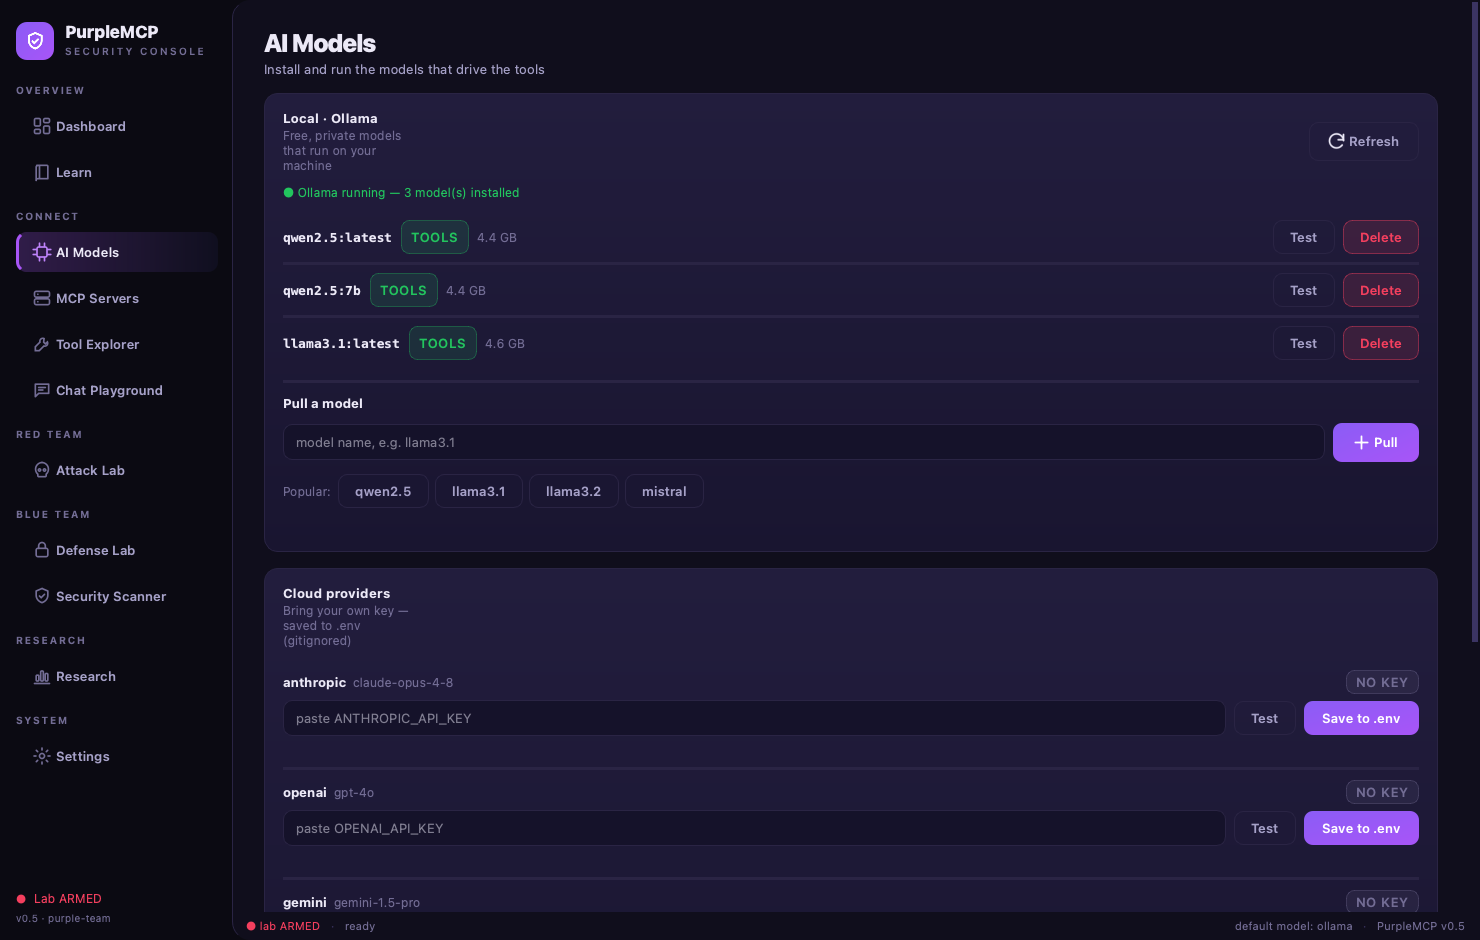
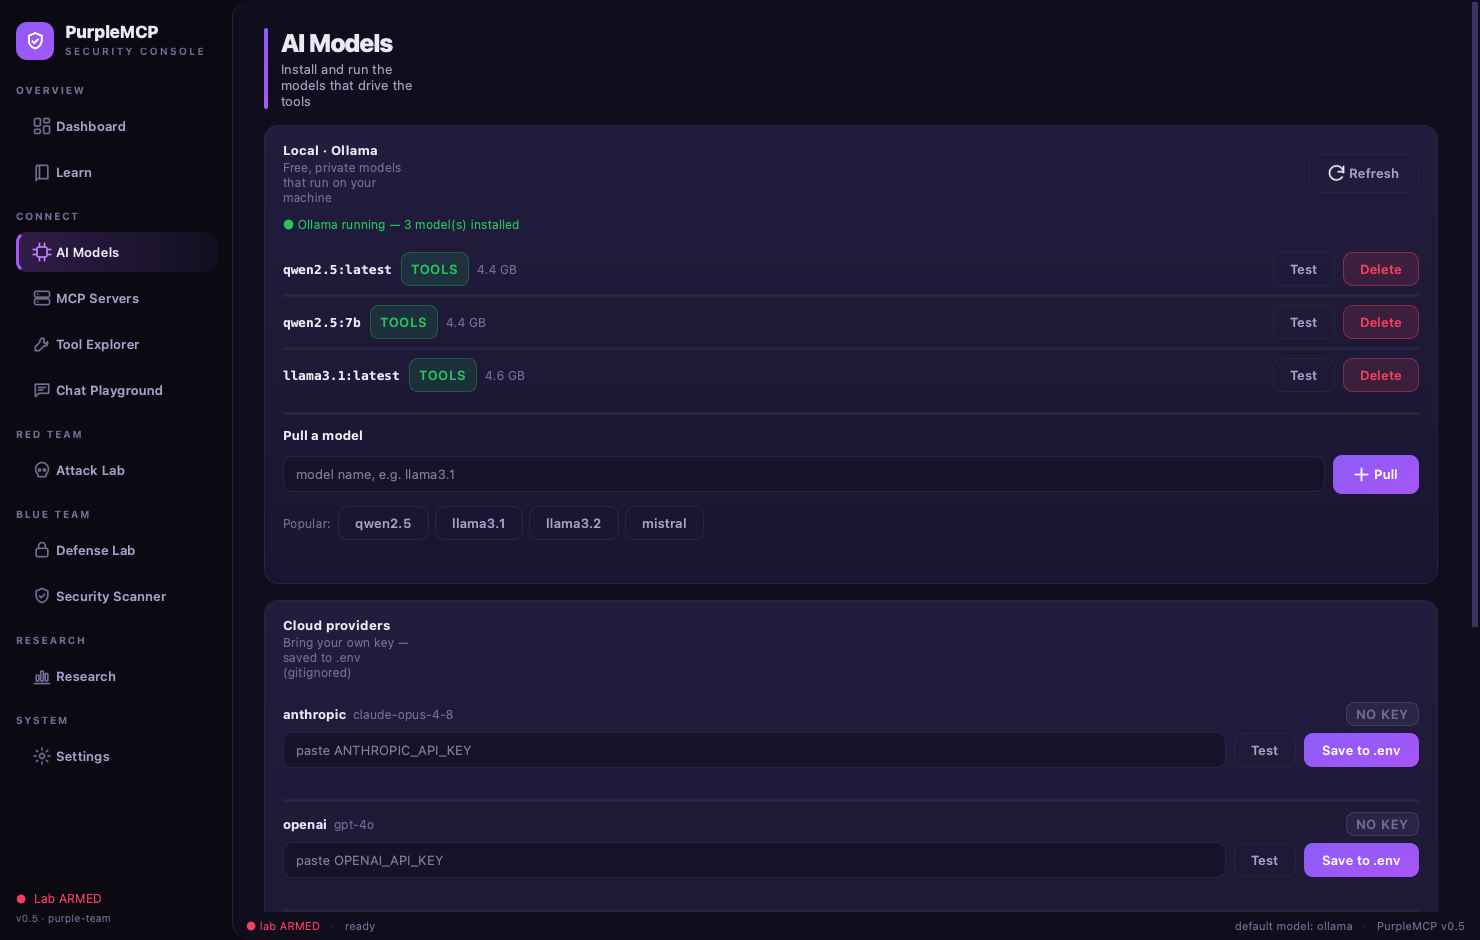
Polish UI: page-header accent bars + a real-terminal manual console
- Every page header now leads with a violet→purple brand accent bar.
- The manual terminal gains macOS-style traffic-light dots and a "live" pill,
  so the copy-and-run console reads as a real terminal.
- Regenerate the GUI screenshots to reflect the refreshed look.

diff --git a/purplemcp/gui/widgets/common.py b/purplemcp/gui/widgets/common.py
@@ -190,19 +190,36 @@ class BusyBar(QProgressBar):
 #  misc
 # --------------------------------------------------------------------------- #
 def page_header(title: str, subtitle: str = "") -> QWidget:
-    """A standard page header: big title with an optional subtitle beneath."""
+    """A page header: a brand accent bar beside a big title + optional subtitle."""
     box = QWidget()
-    lay = QVBoxLayout(box)
-    lay.setContentsMargins(0, 0, 0, 0)
-    lay.setSpacing(3)
+    row = QHBoxLayout(box)
+    row.setContentsMargins(0, 0, 0, 0)
+    row.setSpacing(13)
+
+    accent = QFrame()
+    accent.setFixedWidth(4)
+    accent.setMinimumHeight(34)
+    accent.setSizePolicy(QSizePolicy.Fixed, QSizePolicy.Expanding)
+    accent.setStyleSheet(
+        "border: none; border-radius: 2px;"
+        f" background: qlineargradient(x1:0, y1:0, x2:0, y2:1,"
+        f"   stop:0 {PALETTE['violet']}, stop:1 {PALETTE['purple']});"
+    )
+    row.addWidget(accent)
+
+    col = QVBoxLayout()
+    col.setContentsMargins(0, 0, 0, 0)
+    col.setSpacing(3)
     t = QLabel(title)
     t.setObjectName("PageTitle")
-    lay.addWidget(t)
+    col.addWidget(t)
     if subtitle:
         s = QLabel(subtitle)
         s.setObjectName("PageSub")
         s.setWordWrap(True)
-        lay.addWidget(s)
+        col.addWidget(s)
+    row.addLayout(col)
+    row.addStretch(1)
     return box
 
 

diff --git a/purplemcp/gui/widgets/terminal.py b/purplemcp/gui/widgets/terminal.py
@@ -148,6 +148,10 @@ class TerminalCard(Card):
         self._lab = lab
         self._job = None
 
+        # a small "real terminal" cue in the header: traffic lights + live pill
+        self.add_header_widget(_traffic_lights())
+        self.add_header_widget(Badge("live", PALETTE["green"]))
+
         # suggested commands
         if commands:
             for label, command in commands:
@@ -266,6 +270,19 @@ class TerminalCard(Card):
         self._input.setText(command)
 
 
-def terminal_hint_badge() -> Badge:
-    """A small 'live' pill for terminal headers."""
-    return Badge("live", PALETTE["green"])
+def _dot(color: str) -> QLabel:
+    d = QLabel()
+    d.setFixedSize(11, 11)
+    d.setStyleSheet(f"background: {color}; border-radius: 5px;")
+    return d
+
+
+def _traffic_lights() -> QWidget:
+    """Three macOS-style window dots — a subtle 'this is a terminal' cue."""
+    box = QWidget()
+    lay = QHBoxLayout(box)
+    lay.setContentsMargins(0, 0, 4, 0)
+    lay.setSpacing(6)
+    for color in (PALETTE["red"], PALETTE["amber"], PALETTE["green"]):
+        lay.addWidget(_dot(color))
+    return box

diff --git a/CHANGELOG.md b/CHANGELOG.md
@@ -28,6 +28,17 @@ All notable changes to PurpleMCP. This project adheres loosely to
   updated to match.
 - Screenshots are regenerated with the labs and chat **driven live**, so they show
   real exploit output, a real exploited→blocked verify, and real MCP tool calls.
+- **UI polish:** cards now have subtle vertical-gradient depth, the selected nav
+  item gets a purple left-accent bar, headings use tighter letter-spacing, buttons
+  gained pressed states, and the dashboard hero carries the shield logo mark. Every
+  page header now leads with a brand accent bar, and the manual terminal sports
+  macOS-style traffic-light dots and a "live" pill for a true terminal feel.
+- **Sharper banner** — redesigned (soft node halos, dual glow, vignette) and
+  rendered at 3× (3840×1200) for crisp display; the README shows it full-width.
+
+### Fixed
+- `tests/test_terminal.py` collection no longer requires PySide6: `gui/ops.py`'s
+  `Job` import moved under `TYPE_CHECKING`, so CI's GUI-less `.[dev]` install passes.
 
 ## [0.5.0]
 
